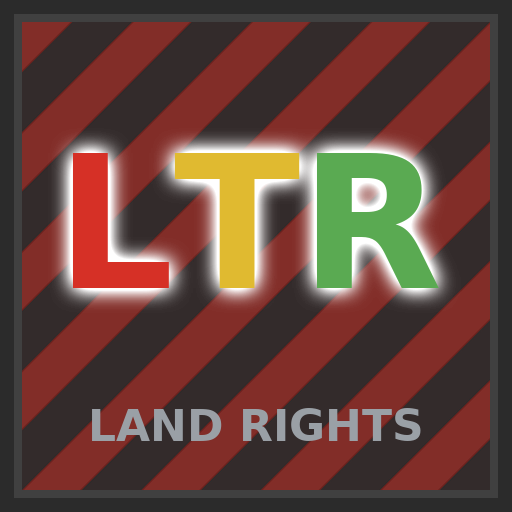
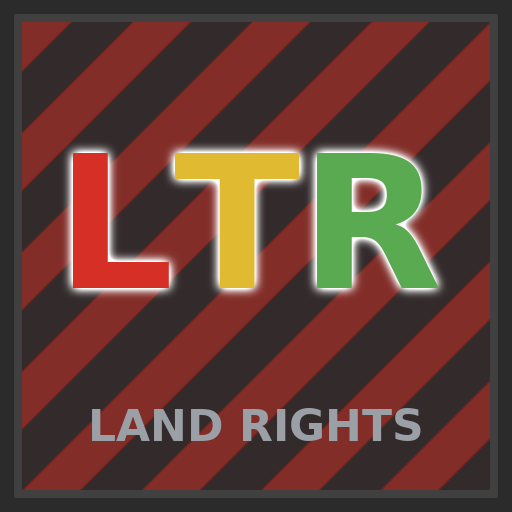
thumbnail: tighten the halo to a rim
Radius 10 read as a soft cloud around the mark. Radius 5 keeps the letters
separated from the stripes -- which was the whole job -- without the glow
becoming a design element of its own.

Changed region(s): [[0.0938, 0.25, 0.875, 0.5938], [0.6875, 0.3438, 0.75, 0.4375]]

diff --git a/tools/gen_thumbnail.py b/tools/gen_thumbnail.py
@@ -37,8 +37,8 @@ SUBTITLE_FILL = (154, 160, 166)
 # reads as a rim rather than a faint smudge; it clips at full white close
 # to the glyph, which is exactly where the contrast is needed.
 GLOW = (255, 255, 255)
-GLOW_RADIUS = 10
-GLOW_STRENGTH = 2.4
+GLOW_RADIUS = 5
+GLOW_STRENGTH = 2.2
 
 LETTERS = "LTR"
 SUBTITLE = "LAND RIGHTS"
